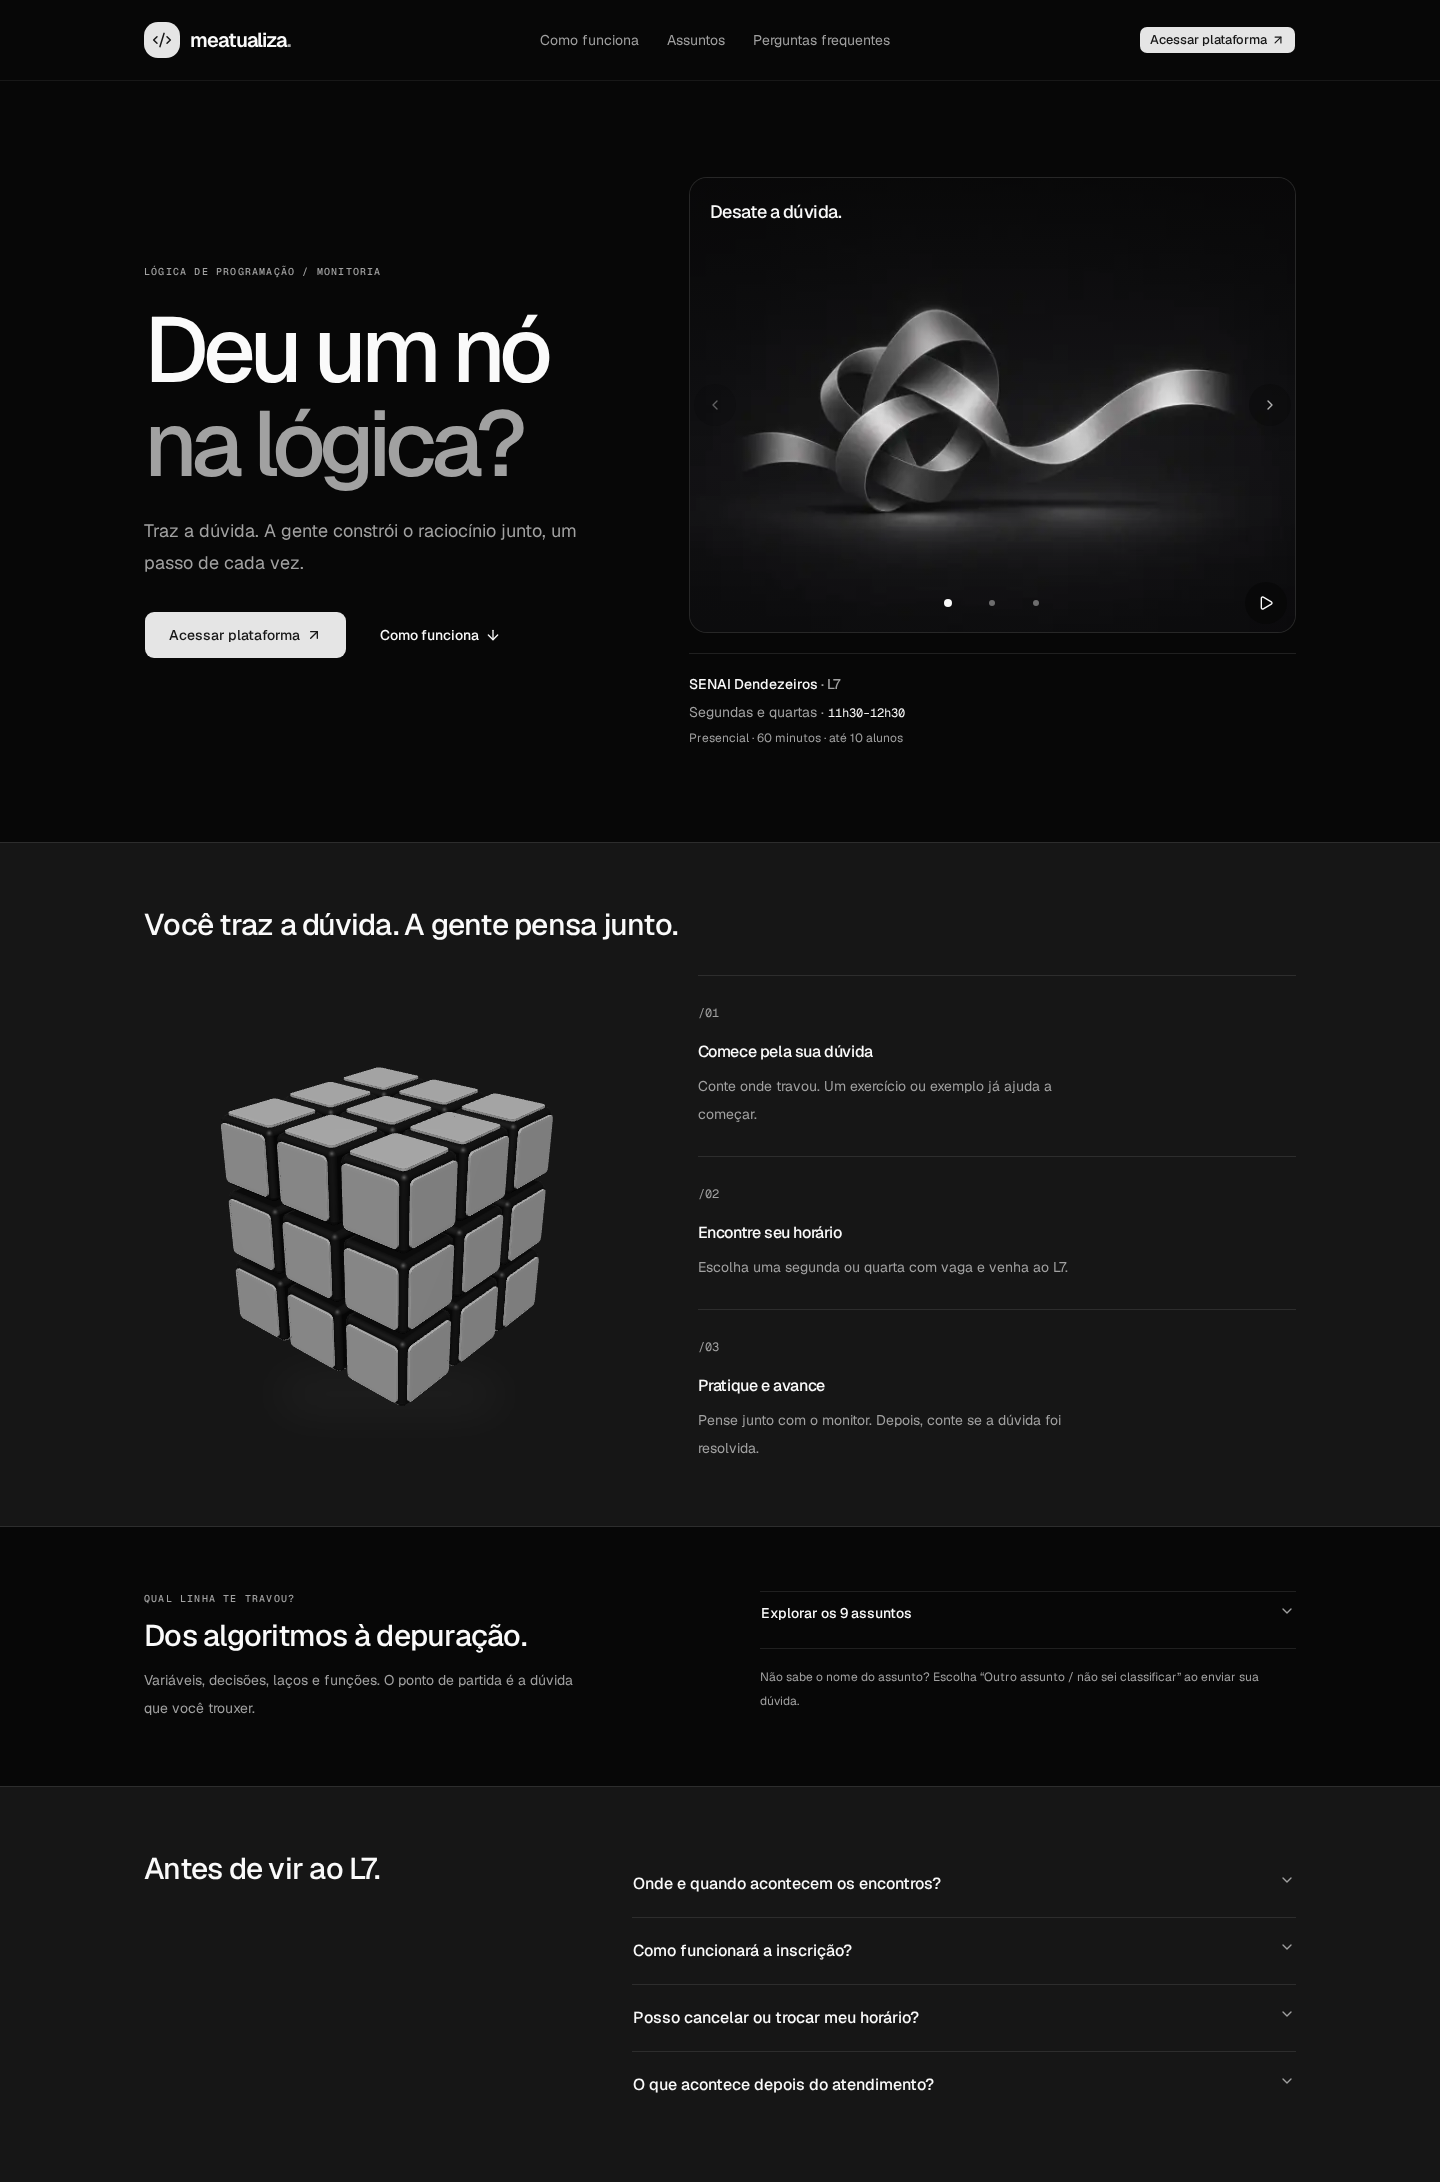
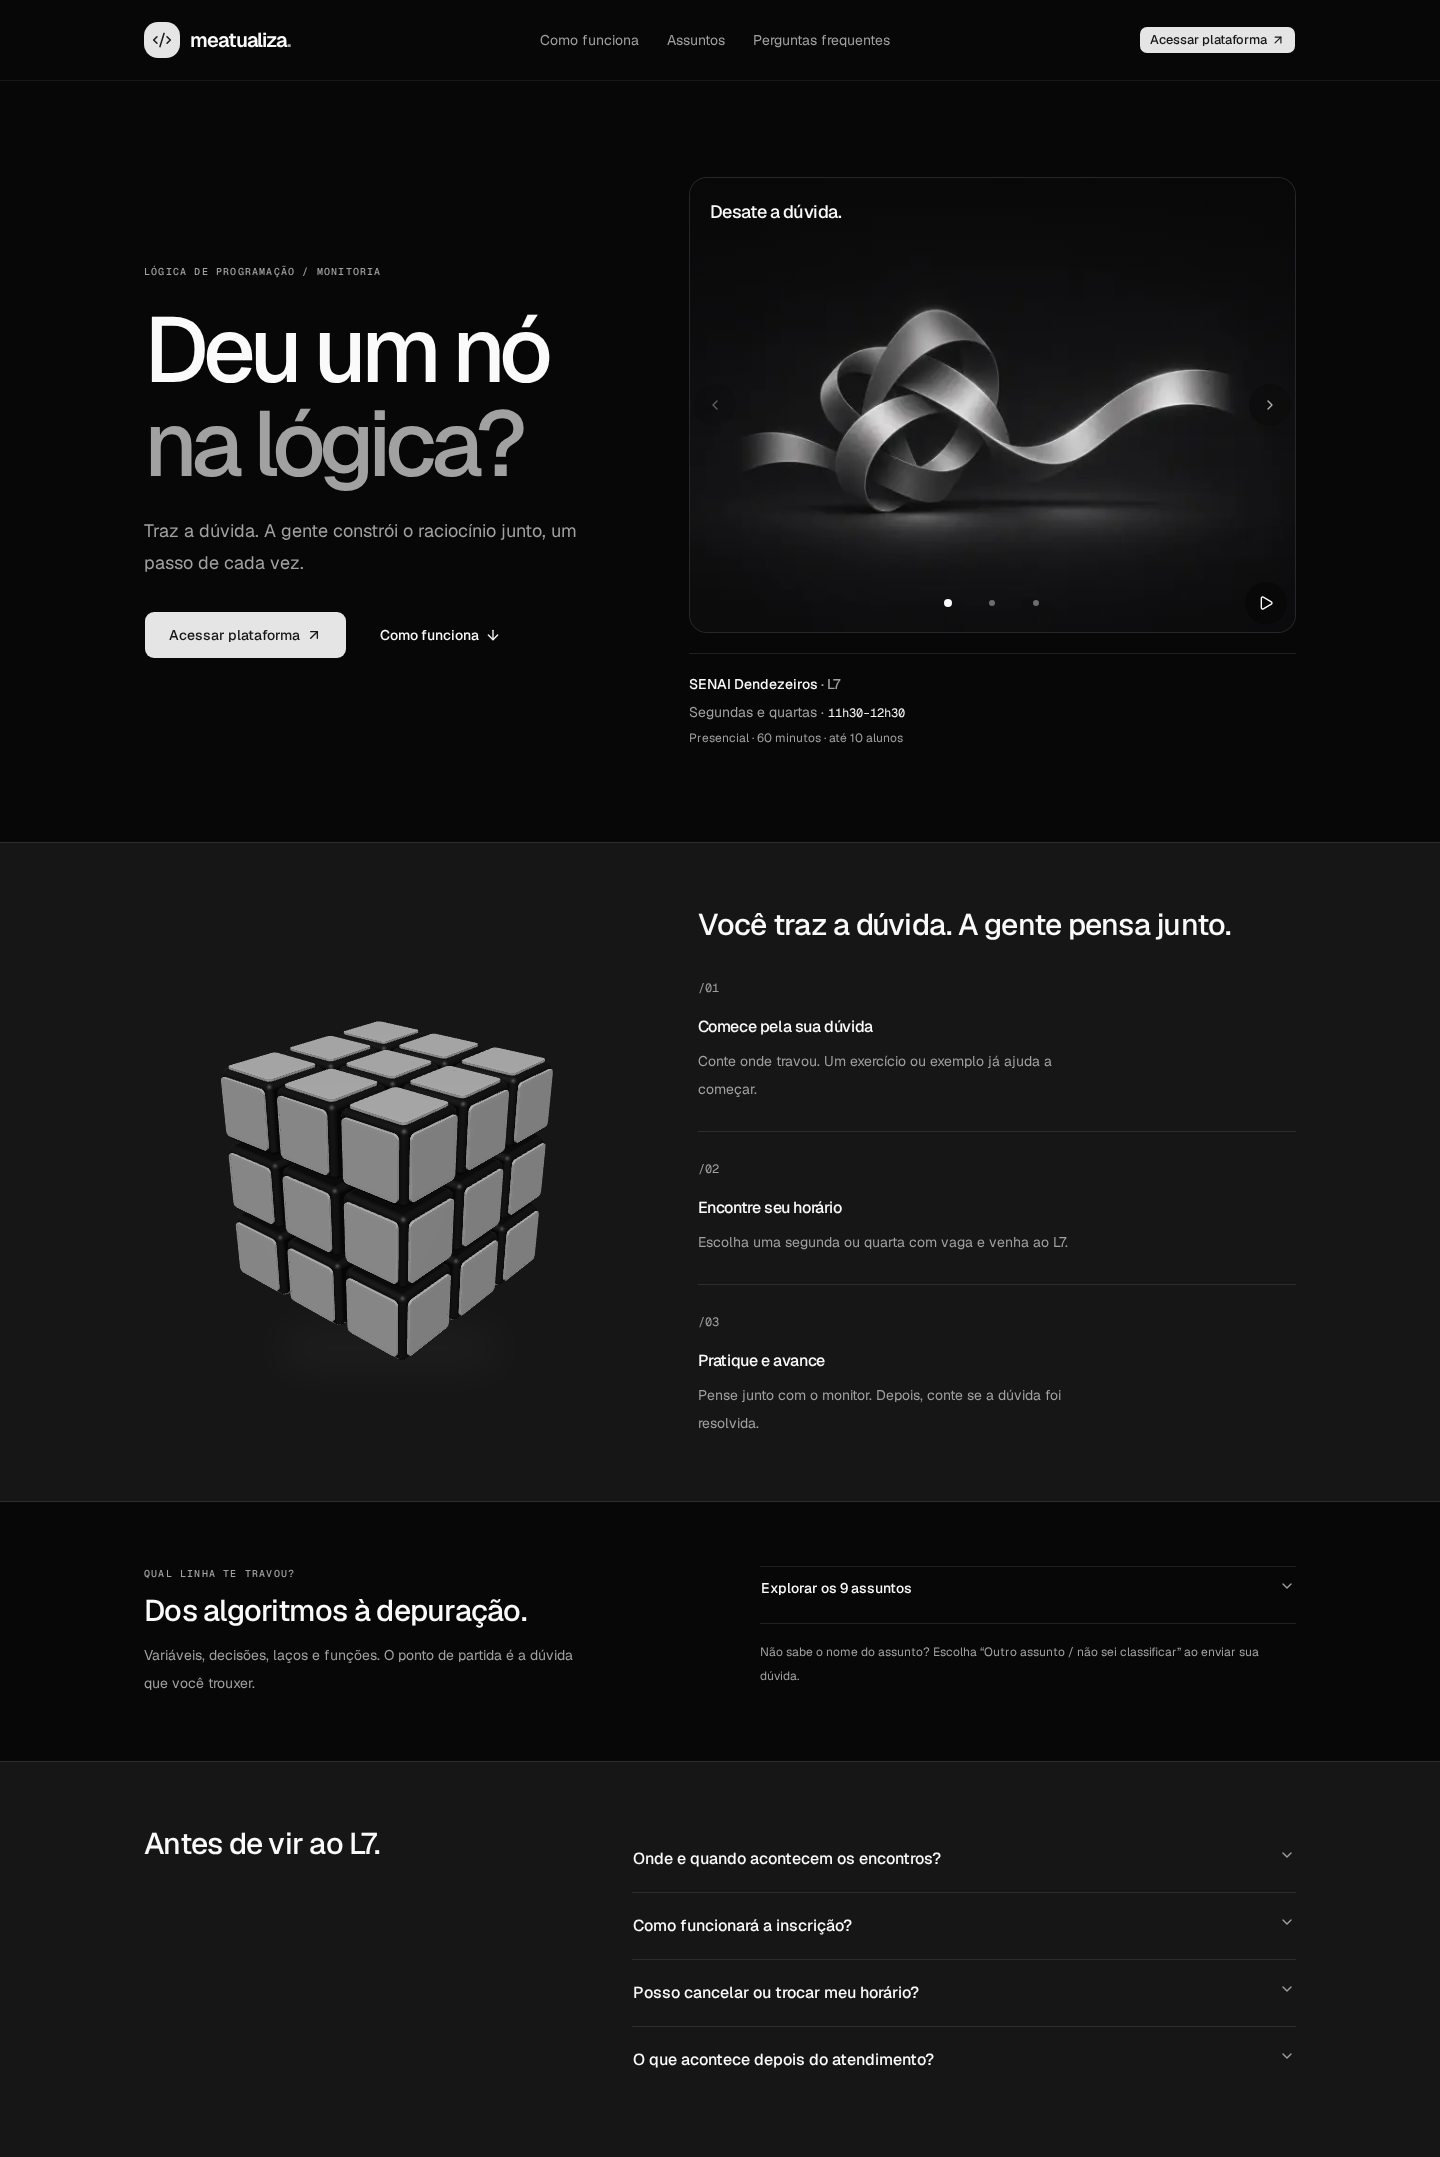
refactor(landing): align how-it-works heading with steps

diff --git a/src/features/landing/how-it-works.tsx b/src/features/landing/how-it-works.tsx
@@ -25,18 +25,21 @@ export function HowItWorks() {
       aria-labelledby="how-title"
       className="border-y border-border bg-muted/50 py-12 sm:py-16"
     >
-      <div className="site-container">
-        <h2
-          id="how-title"
-          className="text-2xl font-medium tracking-tight sm:text-3xl"
-        >
-          Você traz a dúvida. A gente pensa junto.
-        </h2>
-        <div className="mt-8 grid items-center gap-10 lg:grid-cols-[0.9fr_1.1fr] lg:gap-16">
-          <RubiksCube />
-          <ol className="grid gap-7">
+      <div className="site-container grid items-center gap-10 lg:grid-cols-[0.9fr_1.1fr] lg:gap-16">
+        <RubiksCube />
+        <div>
+          <h2
+            id="how-title"
+            className="text-2xl font-medium tracking-tight sm:text-3xl"
+          >
+            Você traz a dúvida. A gente pensa junto.
+          </h2>
+          <ol className="mt-8 grid gap-7">
             {steps.map((step) => (
-              <li key={step.number} className="border-t border-border pt-6">
+              <li
+                key={step.number}
+                className="border-t border-border pt-6 first:border-t-0 first:pt-0"
+              >
                 <span className="font-mono text-xs text-muted-foreground">
                   /{step.number}
                 </span>
